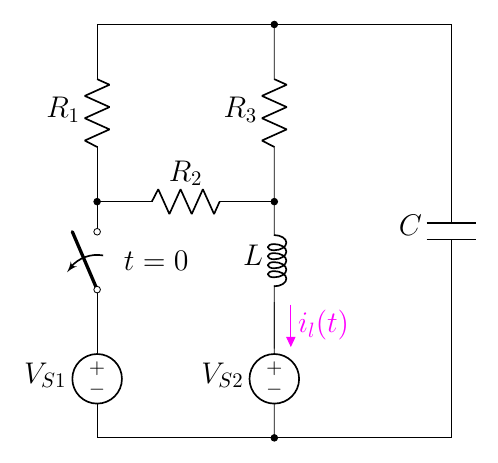
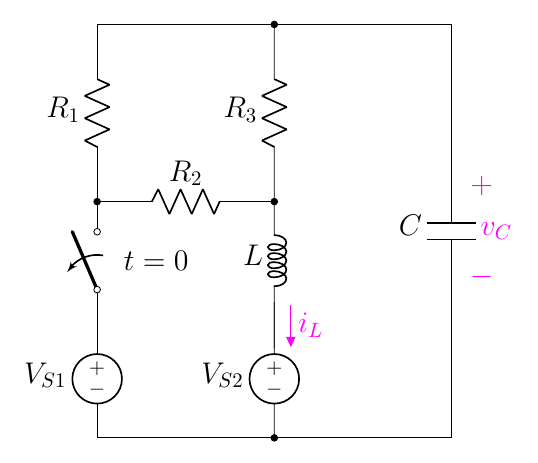
8.37

diff --git a/2.9 Step Response of a Serie RLC/8.5 Complete Response Series/8.37(new).tex b/2.9 Step Response of a Serie RLC/8.5 Complete Response Series/8.37(new).tex
@@ -31,11 +31,11 @@
     %%% find %%%
     \node at(1,3) []{$t=0$};
 
-    % \draw[magenta](6.2,1)
-    %     to[open,v>=$v_c(t)$] ++(0,2);
+    \draw[magenta](6.2,2.5)
+        to[open,v>=$v_C$] ++(0,2);
 
     \draw[circuitikz/current arrow color=magenta](3,2.3)
-        to[open,f>^=$\color{magenta}{i_l(t)}$] ++(0,-2);
+        to[open,f>^=$\color{magenta}{i_L}$] ++(0,-2);
 
 \end{circuitikz}
 \end{document}
